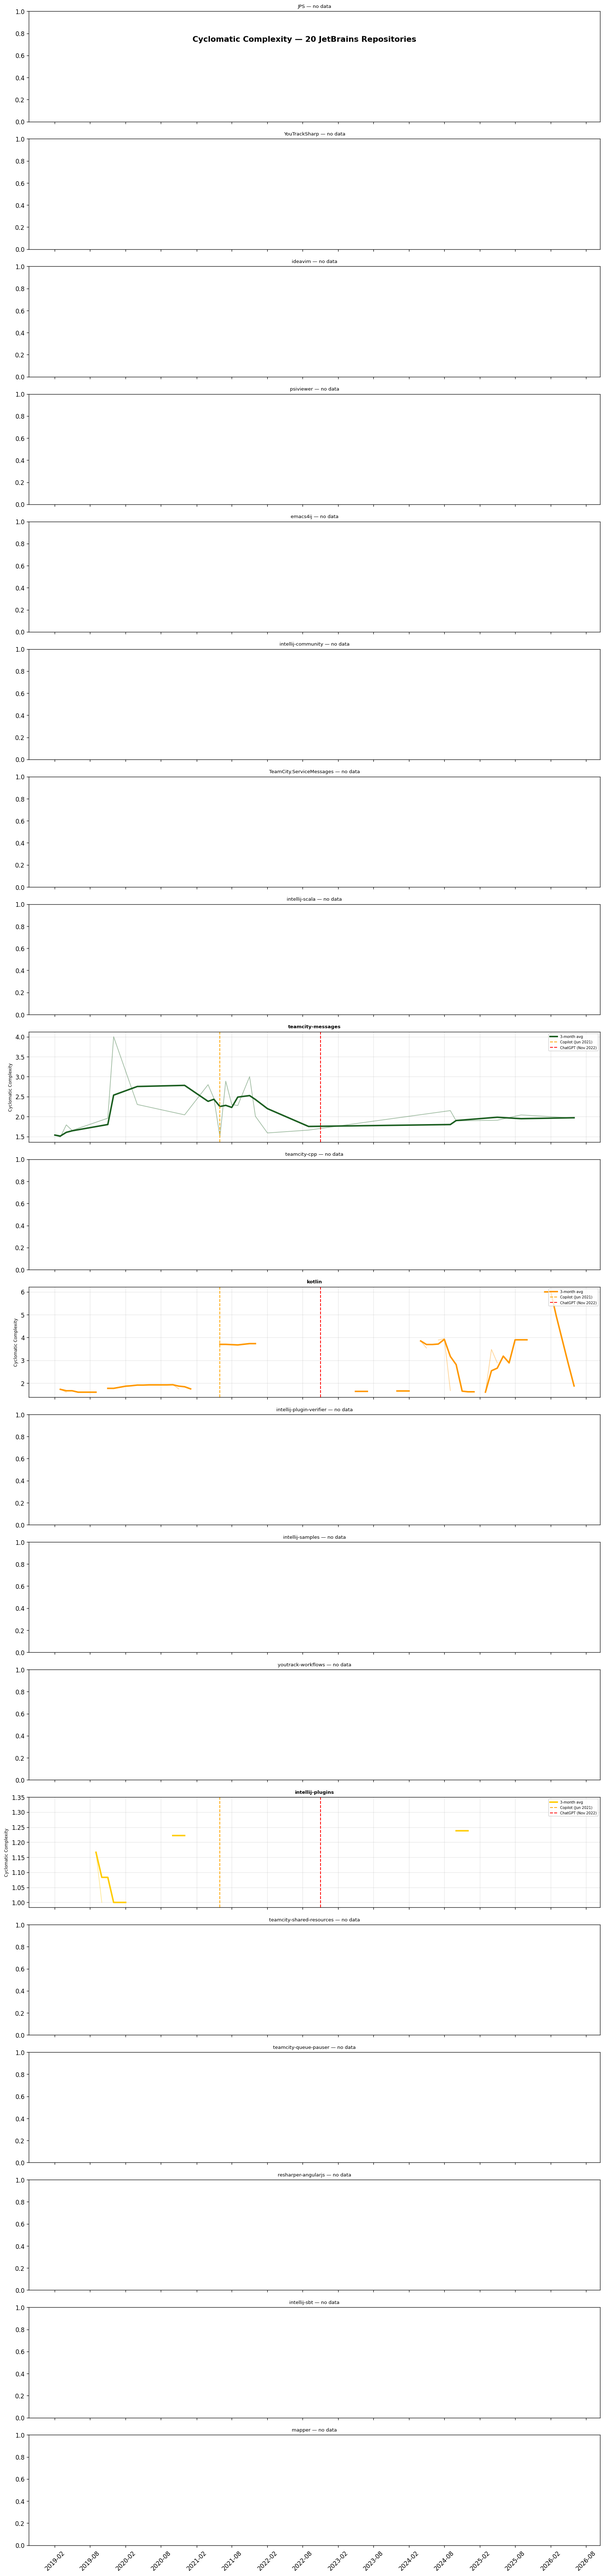
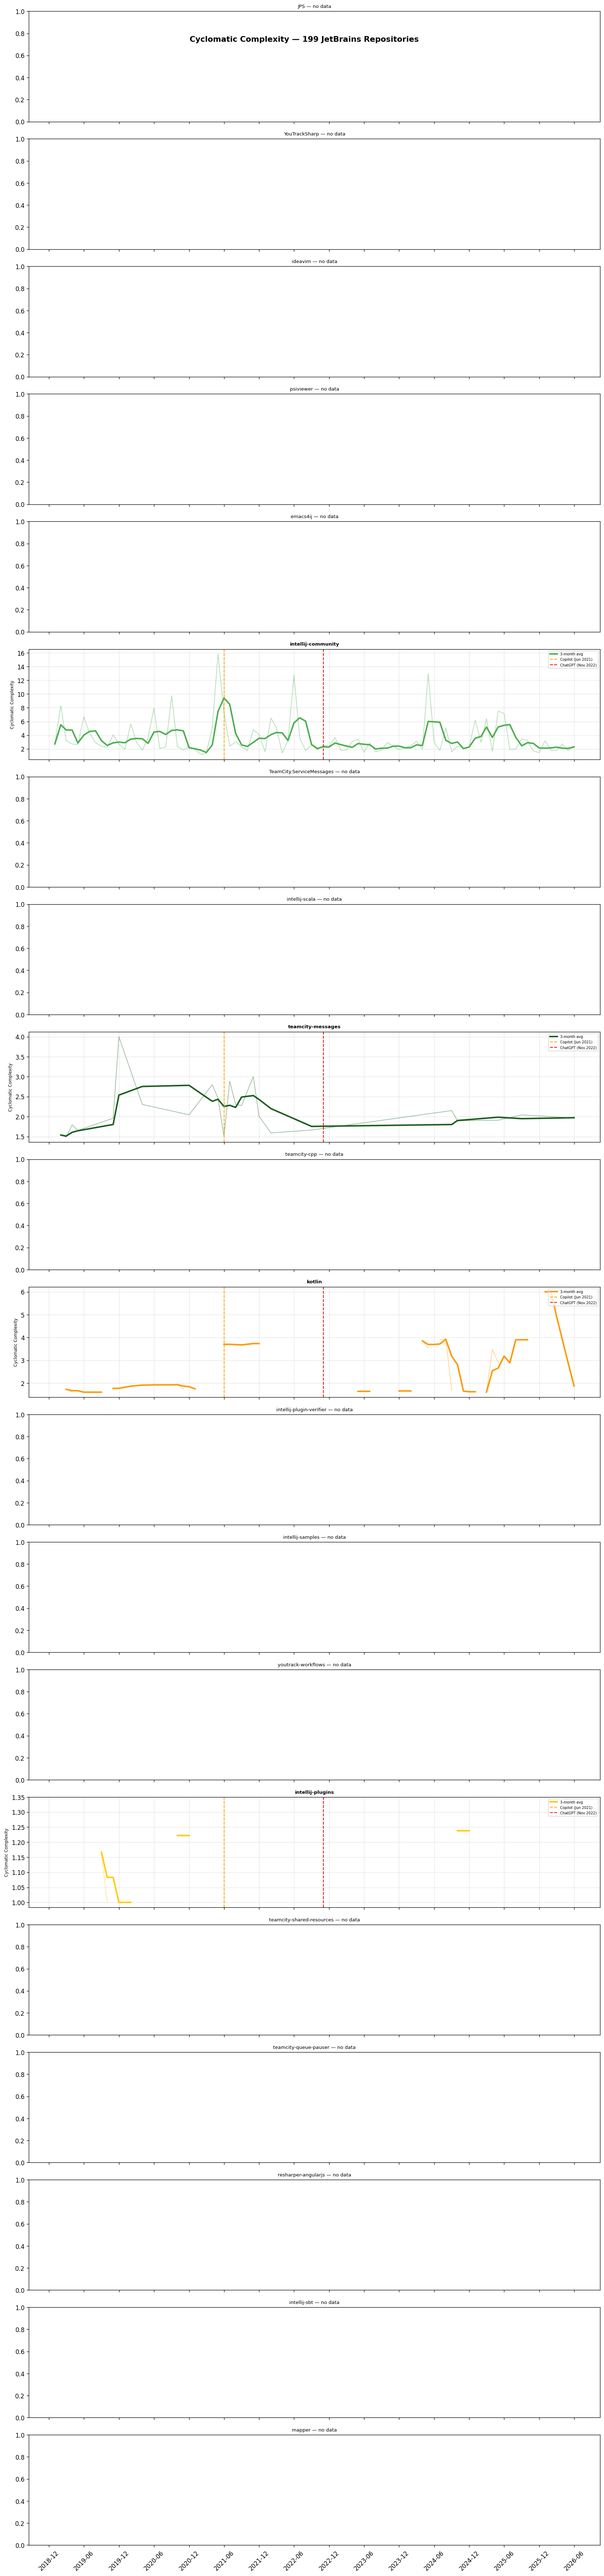
Updated charts: 199 repos title fix, intellij-community included

diff --git a/analysis4.py b/analysis4.py
@@ -6,7 +6,7 @@ import matplotlib.dates as mdates
 import re
 import lizard
 
-print("Full analysis starting... (may take 1-2 hours for 20 repos)")
+print("Full analysis starting... (may take 1-2 hours for 199 repos)")
 
 EPOS = {
     # Group 1: Static Analysis & Code Quality
@@ -724,11 +724,11 @@ def make_chart(title, filename, df, y_col, ylabel):
     plt.savefig(filename, dpi=120, bbox_inches="tight")
     print(f"Saved: {filename}")
 
-make_chart("Comment Density — 20 JetBrains Repositories", "chart1_comment_density.png", monthly_files, "comment_ratio", "Comment Ratio")
-make_chart("Avg Lines Changed per Commit — 20 JetBrains Repositories", "chart2_commit_size.png", monthly_commits, "avg_lines_changed", "Lines Changed")
-make_chart("Bug-Fix Commit Ratio — 20 JetBrains Repositories", "chart3_bugfix_ratio.png", monthly_commits, "bugfix_ratio", "Bug-Fix Ratio")
-make_chart("Cyclomatic Complexity — 20 JetBrains Repositories", "chart4_cyclomatic.png", monthly_files, "cyclomatic_complexity", "Cyclomatic Complexity")
-make_chart("Avg Function Length — 20 JetBrains Repositories", "chart5_avg_function_length.png", monthly_files, "cognitive_complexity", "Avg Lines per Function")
-make_chart("Deletion/Addition Ratio — 20 JetBrains Repositories", "chart6_del_add_ratio.png", monthly_commits, "del_add_ratio", "Del/Add Ratio")
+make_chart("Comment Density — 199 JetBrains Repositories", "chart1_comment_density.png", monthly_files, "comment_ratio", "Comment Ratio")
+make_chart("Avg Lines Changed per Commit — 199 JetBrains Repositories", "chart2_commit_size.png", monthly_commits, "avg_lines_changed", "Lines Changed")
+make_chart("Bug-Fix Commit Ratio — 199 JetBrains Repositories", "chart3_bugfix_ratio.png", monthly_commits, "bugfix_ratio", "Bug-Fix Ratio")
+make_chart("Cyclomatic Complexity — 199 JetBrains Repositories", "chart4_cyclomatic.png", monthly_files, "cyclomatic_complexity", "Cyclomatic Complexity")
+make_chart("Avg Function Length — 199 JetBrains Repositories", "chart5_avg_function_length.png", monthly_files, "cognitive_complexity", "Avg Lines per Function")
+make_chart("Deletion/Addition Ratio — 199 JetBrains Repositories", "chart6_del_add_ratio.png", monthly_commits, "del_add_ratio", "Del/Add Ratio")
 
 print("\nAll done! 6 charts saved.")
